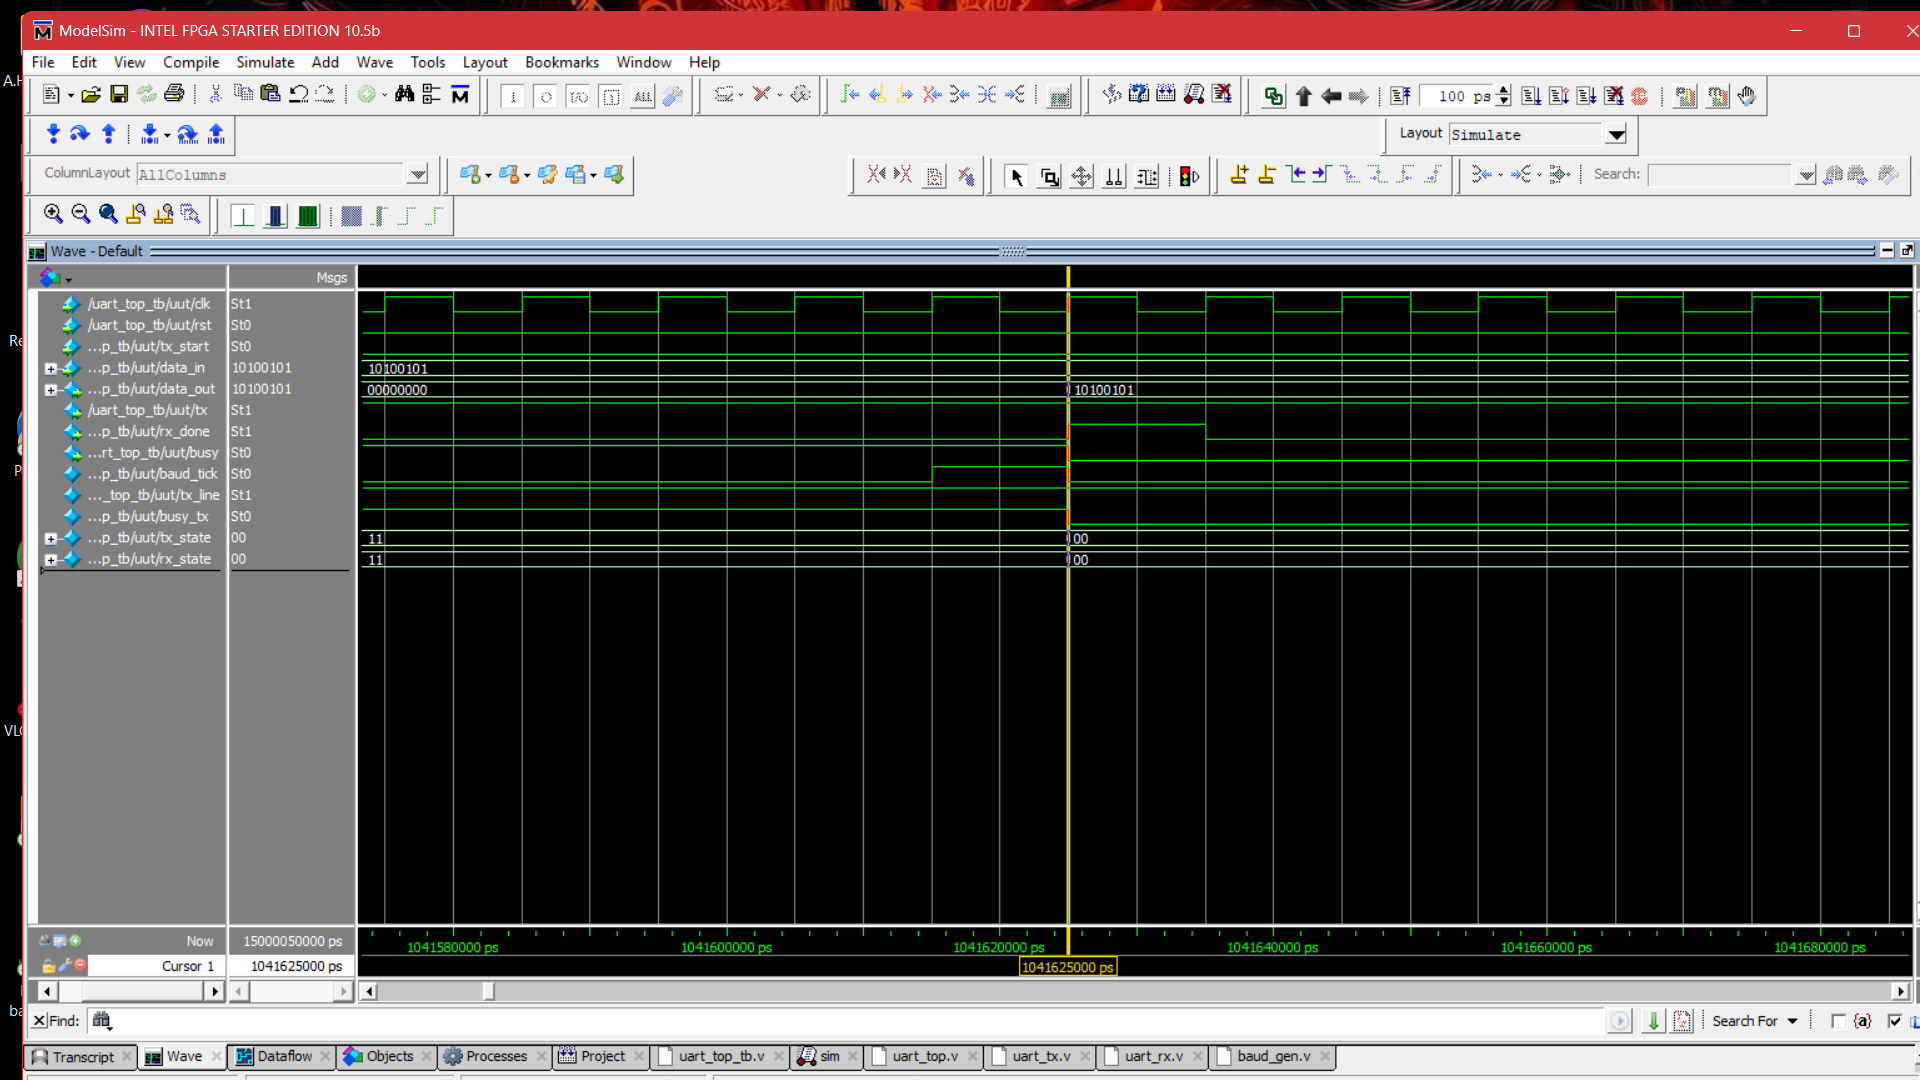
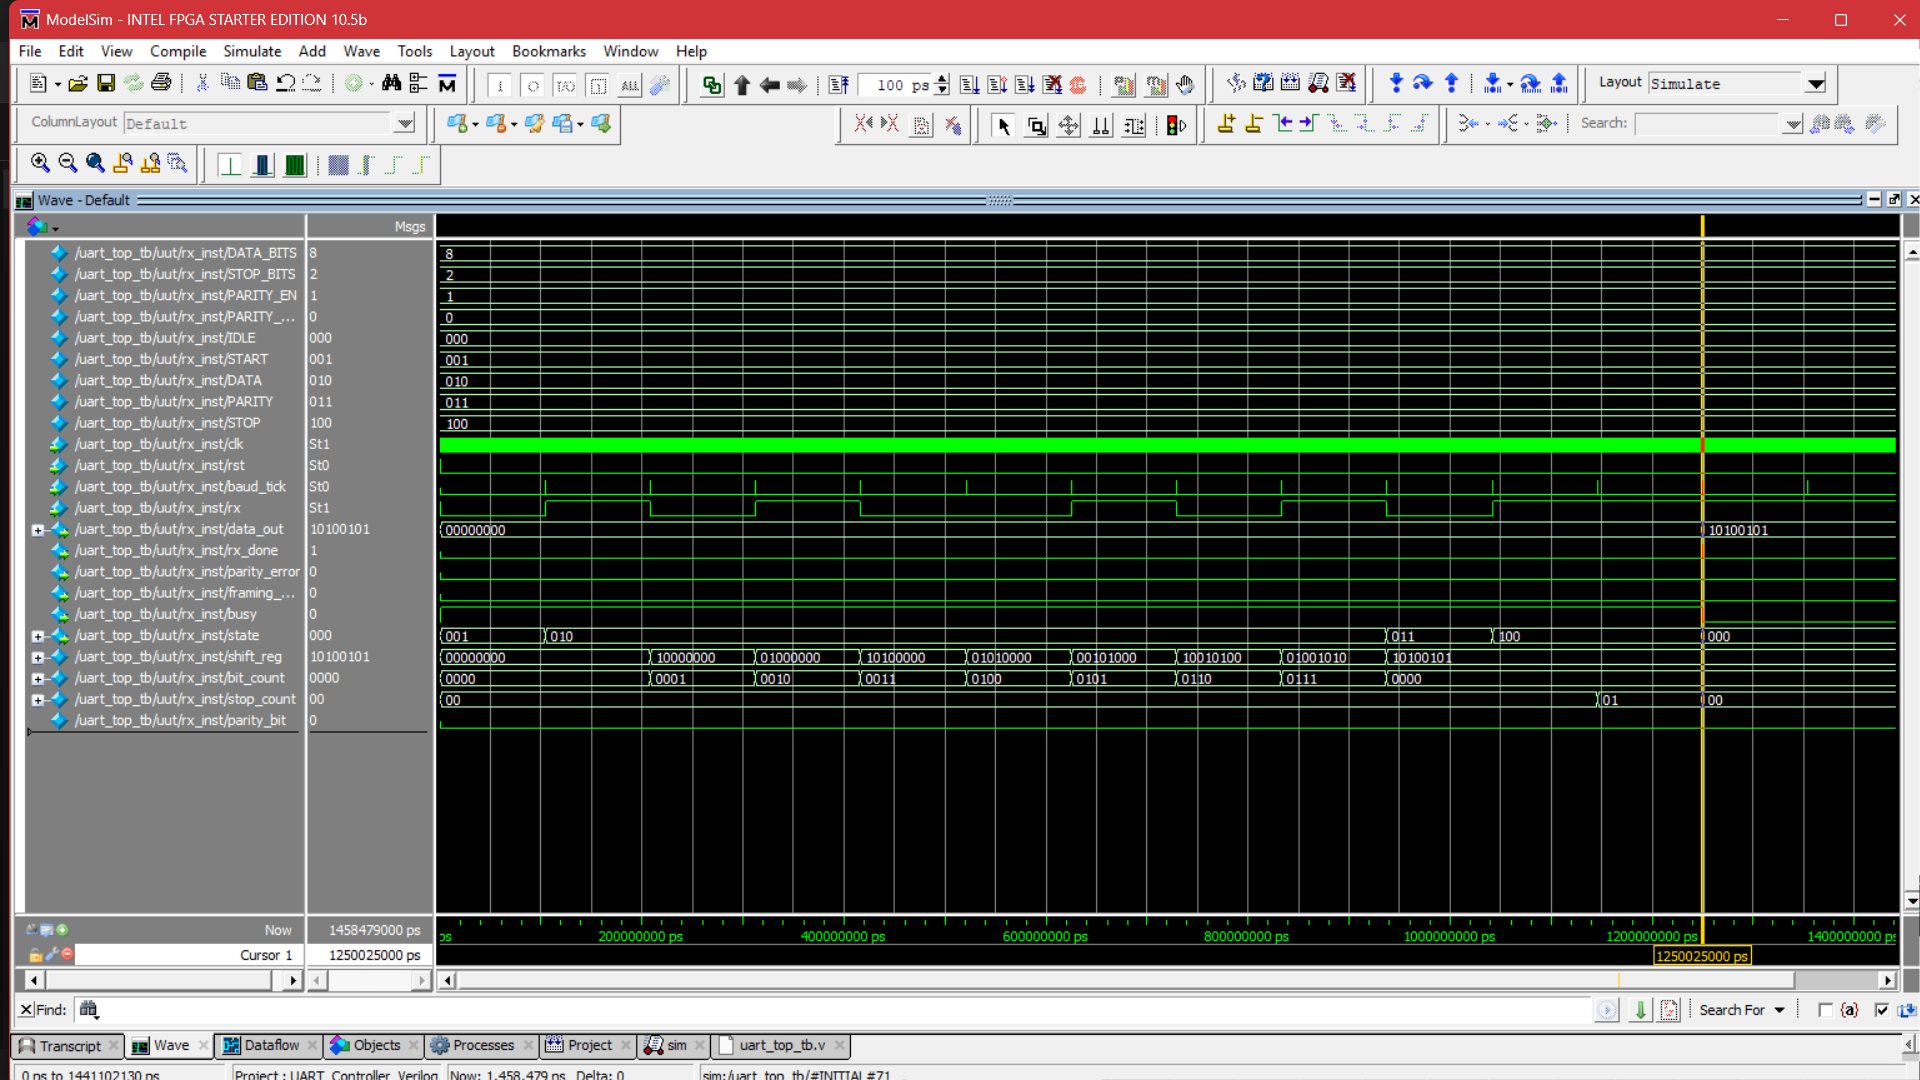
Update README with professional documentation, FSM diagrams, RTL dataflow, and simulation waveforms
- Enhanced README documentation
- Added UART block diagram
- Added UART TX and RX FSM diagrams
- Added UART TX, RX, and Top loopback waveforms
- Added UART TX and RX RTL dataflow views
- Improved project structure and documentation
- Updated verification results and learning outcomes

diff --git a/README.md b/README.md
@@ -61,11 +61,27 @@
        📄 uart_tx_tb.v   
        📄 uart_rx_tb.v  
        📄 uart_top_tb.v  
+<<<<<<< HEAD
     📂 waveforms/ (Simulation Waveform Logs)  
-       🖼️ uart_top_waveform.png  
-    📂 docs/ (Design Documentation and Diagrams)  
+       🖼️ uart_top_waveform.png 
+       🖼️ uart_tx_waveform.png
+       🖼️ uart_rx_waveform.png
+    📂 docs/ (Design Documentation and Diagrams)
+       🖼️ uart_block_diagram.png
+       🖼️ uart_tx_fsm.png
+       🖼️ uart_rx_fsm.png  
+=======
+    📂 docs/ (Design Documentation and Diagrams) 
+       🖼️ uart_block_diagram.png
+       🖼️ uart_tx_fsm.png
+       🖼️ uart_rx_fsm.png
+>>>>>>> 79be2e89e58624358f9e42cb4e5389d64c90ac37
        🖼️ uart_tx_dataflow.png  
        🖼️ uart_rx_dataflow.png  
+    📂 waveforms/ (Simulation Waveform Logs)   
+       🖼️ uart_tx_waveform.png  
+       🖼️ uart_rx_waveform.png
+       🖼️ uart_top_waveform.png
     📄 README.md
 
  ---
@@ -260,20 +276,99 @@ The following functionality has been verified:
 
 ---
 
+<<<<<<< HEAD
+=======
+🏗️ UART Block Diagram
+
+![UART Block Diagram](docs/uart_block_diagram.png)
+
+---
+
+🔄 UART Transmitter FSM
+
+![UART TX FSM](docs/uart_tx_fsm.png)
+
+---
+
+🔄 UART Receiver FSM
+
+![UART RX FSM](docs/uart_rx_fsm.png)
+
+>>>>>>> 79be2e89e58624358f9e42cb4e5389d64c90ac37
+---
+
 📸 Waveforms and RTL Views
 
-UART Top Waveform
+<<<<<<< HEAD
+🏗️ UART Block Diagram
 
-waveforms/uart_top_waveform.png
+![UART Block Diagram](docs/uart_block_diagram.png)
 
-UART Transmitter Dataflow
+---
 
-docs/uart_tx_dataflow.png
+🔄 UART Transmitter FSM
 
-UART Receiver Dataflow
+![UART TX FSM](docs/uart_tx_fsm.png)
 
-docs/uart_rx_dataflow.png
+---
 
+🔄 UART Receiver FSM
+
+![UART RX FSM](docs/uart_rx_fsm.png)
+
+---
+
+📸 Waveforms and RTL Views
+
+📈 UART Transmitter Waveform
+
+![UART TX Waveform](waveforms/uart_tx_waveform.png)
+
+---
+
+📈 UART Receiver Waveform
+
+![UART RX Waveform](waveforms/uart_rx_waveform.png)
+
+---
+
+📈 UART Top Loopback Waveform
+
+![UART Top Waveform](waveforms/uart_top_loopback_waveform.png)
+=======
+📈 UART Transmitter Waveform
+
+![UART TX Waveform](waveforms/uart_tx_waveform.png)
+
+---
+
+📈 UART Receiver Waveform
+
+![UART RX Waveform](waveforms/uart_rx_waveform.png)
+
+---
+
+📈 UART Top Loopback Waveform
+
+![UART Top Waveform](waveforms/uart_top_waveform.png)
+>>>>>>> 79be2e89e58624358f9e42cb4e5389d64c90ac37
+
+---
+
+🔧 UART Transmitter RTL Dataflow
+
+![UART TX Dataflow](docs/uart_tx_dataflow.png)
+
+---
+
+🔧 UART Receiver RTL Dataflow
+
+![UART RX Dataflow](docs/uart_rx_dataflow.png)
+<<<<<<< HEAD
+
+---
+=======
+>>>>>>> 79be2e89e58624358f9e42cb4e5389d64c90ac37
 
 ---
 